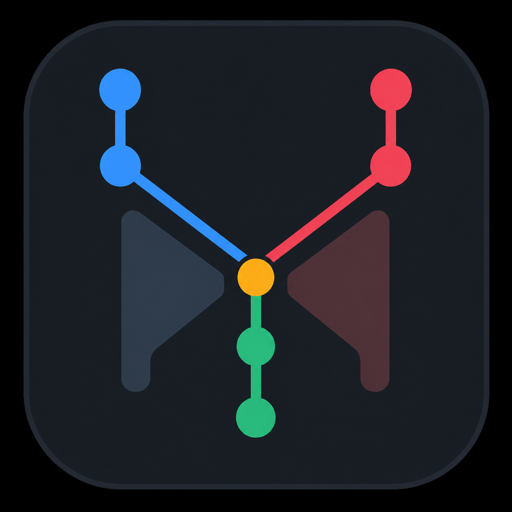
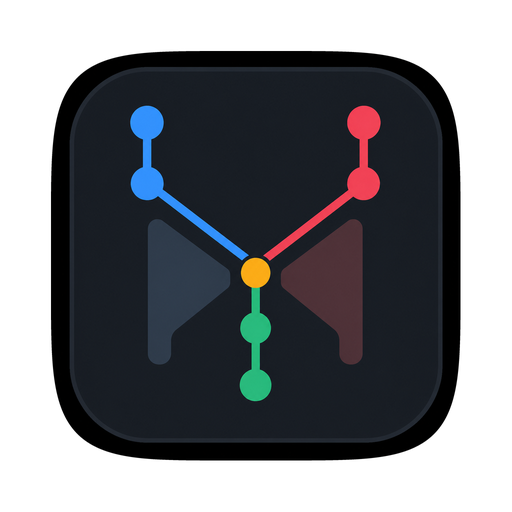
feat: macOS 앱 아이콘·이름 정비 및 mac 빌드 타깃 추가
- macOS 표준 그리드(본체 80% + squircle 마스크)로 mac 전용 아이콘 생성(build/icon-mac.png)
- dock 아이콘을 app.dock.setIcon으로 직접 지정(BrowserWindow.icon은 macOS에서 무시됨)
- app.setName('Mergit')으로 앱 이름 지정
- electron-builder mac 타깃(dmg, 미서명) 및 dist:mac 스크립트 추가

diff --git a/src/main/index.ts b/src/main/index.ts
@@ -23,10 +23,16 @@ function createWindow(): BrowserWindow {
   return win
 }
 
+// 패키징 전 dev 실행에서도 앱 이름이 Mergit으로 잡히게 한다
+// (macOS dev의 메뉴바 앱 이름은 Electron 바이너리 번들명이라 패키징해야 바뀐다)
+app.setName('Mergit')
+
 app.whenReady().then(() => {
   // Windows/Linux는 창 안에 메뉴바(File/Edit/View...)가 박히므로 제거한다.
   // macOS는 앱 메뉴를 없애면 Cmd+C/V 등 Edit 단축키가 깨질 수 있어 유지.
   if (process.platform !== 'darwin') Menu.setApplicationMenu(null)
+  // macOS 독 아이콘 — BrowserWindow.icon은 macOS에서 무시되므로 직접 지정 (dev 포함)
+  else app.dock?.setIcon(icon)
   registerIpc(createWindow)
   createWindow()
   app.on('activate', () => {
